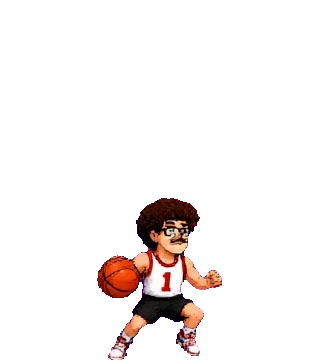
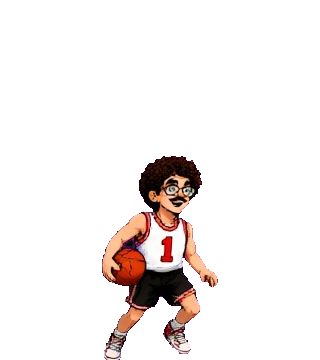
Henrico consertado: sprite das 7 folhas (5 sprite + 2 habilidades como poses, zero celulas gigantes), atlas SO da folha 3, retrato no roster (46 lutadores), musica nao troca mais sem parar (1 hot track por faixa)

Changed region(s): [[0.2812, 0.4278, 0.7188, 1.0]]

diff --git a/js/engine/audio.js b/js/engine/audio.js
@@ -351,6 +351,7 @@ const AudioSys = {
     };
     this.music = a;
     this.musicCross = 0;
+    this._hotDone = false; /* nova faixa principal: libera UMA hot */
     this.hotWanted = false;
     this._hotMiss = false;
     this.applyMusicVolumes();
@@ -416,7 +417,10 @@ const AudioSys = {
   _advanceCrossfade() {
     if (this.musicKind !== 'battle') return;
     if (this.intensity <= 0.32) this._hotMiss = false;
-    if (this.intensity >= 0.75 && !this.musicHot && !this._hotMiss) this._promoteHotTrack();
+    /* FIX: UMA hot track por faixa principal — antes, com a luta quente,
+       cada hot que acabava ja promovia outra: trocava de musica sem parar
+       e nenhuma tocava ate o fim. Agora a faixa toca inteira. */
+    if (this.intensity >= 0.75 && !this.musicHot && !this._hotMiss && !this._hotDone) this._promoteHotTrack();
     if (this.intensity <= 0.32) this.hotWanted = false;
     else if (this.intensity >= 0.75 && this.musicHot) this.hotWanted = true;
     const goal = this.hotWanted && this.musicHot ? 1 : 0;
@@ -431,6 +435,7 @@ const AudioSys = {
   },
   _promoteHotTrack() {
     if (!this.music || this.musicKind !== 'battle') return;
+    this._hotDone = true; /* uma hot track por faixa — nao fica trocando */
     const next = this.pickBattleTrack();
     if (!next || !next.file || next.file === this.music.src) { this._hotMiss = true; return; }
     const a = new Audio(next.file);

diff --git a/js/data/roster-portraits.js b/js/data/roster-portraits.js
@@ -4,7 +4,7 @@ const ROSTER_PORTRAITS = {
   "cell": 96,
   "cols": 7,
   "file": "assets/ui/roster-portraits.png",
-  "version": "v36-pack1",
+  "version": "v36-portraits1",
   "order": [
     "du",
     "iales",
@@ -50,7 +50,8 @@ const ROSTER_PORTRAITS = {
     "ponteiro",
     "lia",
     "nexo",
-    "maximilian"
+    "maximilian",
+    "henrico"
   ],
   "crops": {
     "du": {
@@ -345,6 +346,34 @@ const ROSTER_PORTRAITS = {
       "y": 31,
       "side": 150,
       "source": "assets/sprites/ponteiro.png",
+      "frame": "idle-0"
+    },
+    "lia": {
+      "x": 92,
+      "y": 42,
+      "side": 136,
+      "source": "assets/sprites/lia.png",
+      "frame": "idle-0"
+    },
+    "nexo": {
+      "x": 84,
+      "y": 42,
+      "side": 136,
+      "source": "assets/sprites/nexo.png",
+      "frame": "idle-0"
+    },
+    "maximilian": {
+      "x": 96,
+      "y": 42,
+      "side": 136,
+      "source": "assets/sprites/maximilian.png",
+      "frame": "idle-0"
+    },
+    "henrico": {
+      "x": 97,
+      "y": 37,
+      "side": 136,
+      "source": "assets/sprites/henrico.png",
       "frame": "idle-0"
     }
   }

diff --git a/tools/integrate_fighter.py b/tools/integrate_fighter.py
@@ -483,37 +483,44 @@ PONTEIRO_POSES = {
     'win':     ([(0, 0, 4, False), (0, 1, 4, False), (0, 0, 4, False), (0, 1, 4, False)], 200, BASE),
 }
 
-# HENRICO, o Campeao da Quadra (2 folhas 4x5, virado pra DIREITA):
-# folha1 (si=0): idle/andar/pulo/pulo | andar/idle/soco-ar/chute-ar |
-# soco/soco/cast x2 | chute/chute/agachar/agachar-soco |
-# agachar-chute/hit/KO/vitoria
-# folha2 (si=1): idle/pulo/andar/agachar | soco/cast/chute/agachar-soco |
-# soco-ar/hit/bloqueio/chute-ar | KO/vitoria/taunt
+# HENRICO, o Campeao da Quadra — 7 folhas: 5 de sprite + 2 de habilidades
+# usadas como POSES (o dono mandou: habilidades so da folha 3, as folhas
+# 1 e 2 de habilidades entram nas poses). A vitoria da folha 1 (3,4) tem
+# confete de fundo que o recorte engole — evitar.
+# folhas: 0=sprite1 1=sprite2 2=sprite3 3=sprite5 4=sprite6(4x4!) 5=hab1 6=hab2
 HENRICO_POSES = {
-    'idle':    ([(0, 0, 0, False), (1, 0, 1, False), (0, 0, 0, False), (1, 1, 2, False)], 200, BASE),
-    'walk':    ([(0, 1, 0, False), (0, 2, 0, False), (0, 0, 1, False), (0, 3, 0, False)], 198, BASE),
-    'jump':    ([(0, 2, 0, False)] * 4, 180, AIR),
-    'crouch':  ([(0, 2, 3, False)] * 4, 140, BASE),
-    'punch':   ([(0, 0, 2, False), (0, 1, 2, False), (0, 0, 2, False), (0, 1, 2, False)], 195, BASE),
-    'kick':    ([(0, 0, 3, False), (0, 1, 3, False), (0, 0, 3, False), (0, 1, 3, False)], 190, BASE),
-    'cpunch':  ([(0, 3, 3, False)] * 4, 145, BASE),
-    'ckick':   ([(0, 0, 4, False)] * 4, 150, BASE),
-    'jpunch':  ([(0, 2, 1, False)] * 4, 185, AIR),
-    'jkick':   ([(0, 3, 1, False)] * 4, 180, AIR),
-    'special': ([(0, 2, 2, False), (0, 3, 2, False), (1, 1, 1, False), (0, 2, 2, False)], 200, BASE),
-    'hit':     ([(1, 1, 2, False)] * 4, 195, BASE),
-    'block':   ([(1, 2, 2, False)] * 4, 198, BASE),
-    'ko':      ([(1, 0, 3, False)] * 4, 80, BASE),
-    'win':     ([(0, 3, 4, False), (1, 1, 3, False), (0, 3, 4, False), (1, 1, 3, False)], 200, BASE),
+    'idle':    ([(4, 1, 0, False), (4, 1, 1, False), (2, 0, 1, False), (3, 0, 0, False)], 200, BASE),
+    'walk':    ([(4, 1, 0, False), (4, 2, 0, False), (4, 0, 1, False), (2, 0, 0, False)], 198, BASE),
+    'jump':    ([(4, 2, 0, False), (2, 2, 0, False), (2, 3, 0, False), (4, 2, 0, False)], 180, AIR),
+    'crouch':  ([(4, 1, 3, False), (3, 0, 1, False), (4, 1, 3, False), (3, 0, 1, False)], 140, BASE),
+    'punch':   ([(3, 2, 1, False), (3, 3, 1, False), (5, 0, 0, False), (5, 1, 0, False)], 195, BASE),
+    'kick':    ([(4, 3, 2, False), (0, 0, 3, False), (0, 1, 3, False), (4, 3, 2, False)], 190, BASE),
+    'cpunch':  ([(4, 0, 3, False), (3, 2, 3, False), (4, 0, 3, False), (3, 2, 3, False)], 145, BASE),
+    'ckick':   ([(4, 2, 3, False), (2, 0, 3, False), (2, 1, 3, False), (3, 3, 3, False)], 150, BASE),
+    'jpunch':  ([(4, 3, 0, False), (2, 2, 2, False), (2, 3, 2, False), (4, 3, 0, False)], 185, AIR),
+    'jkick':   ([(4, 3, 1, False), (4, 3, 1, False), (2, 3, 3, False), (2, 3, 3, False)], 180, AIR),
+    'special': ([(3, 1, 1, False), (1, 1, 1, False), (0, 2, 2, False), (3, 1, 1, False)], 200, BASE),
+    'hit':     ([(4, 3, 3, False), (2, 0, 4, False), (0, 1, 4, False), (1, 1, 2, False)], 195, BASE),
+    'block':   ([(3, 2, 2, False), (1, 2, 2, False), (3, 2, 2, False), (1, 2, 2, False)], 198, BASE),
+    'ko':      ([(2, 2, 4, False), (3, 0, 4, False), (0, 2, 4, False), (2, 2, 4, False)], 80, BASE),
+    'win':     ([(3, 1, 4, False), (3, 1, 4, False), (3, 1, 4, False), (3, 1, 4, False)], 200, BASE),
 }
 
 FIGHTERS = {
     'henrico': {
-        'sheets': ['henrico-sprite-1.jpg', 'henrico-sprite-2.jpg'],
-        'abilities': 'henrico-abilities-2.jpg',
+        'sheets': ['henrico-sprite-1.jpg', 'henrico-sprite-2.jpg', 'henrico-sprite-3.jpg', 'henrico-sprite-5.jpg', 'henrico-sprite-6.jpg', 'henrico-abilities-1.jpg', 'henrico-abilities-2.jpg'],
+        'abilities': 'henrico-abilities-3.jpg',
         'poses': HENRICO_POSES,
-        'ui_cell': (0, 0, 0, False),
+        'ui_cell': (4, 1, 0, False),
     },
+
+    'henrico': {
+        'sheets': ['henrico-sprite-1.jpg', 'henrico-sprite-2.jpg', 'henrico-sprite-3.jpg', 'henrico-sprite-5.jpg', 'henrico-sprite-6.jpg', 'henrico-abilities-1.jpg', 'henrico-abilities-2.jpg'],
+        'abilities': 'henrico-abilities-3.jpg',
+        'poses': HENRICO_POSES,
+        'ui_cell': (4, 1, 0, False),
+    },
+
 
     'ponteiro': {
         'sheets': ['ponteiro-sprite-1.jpg', 'ponteiro-sprite-2.jpg'],
